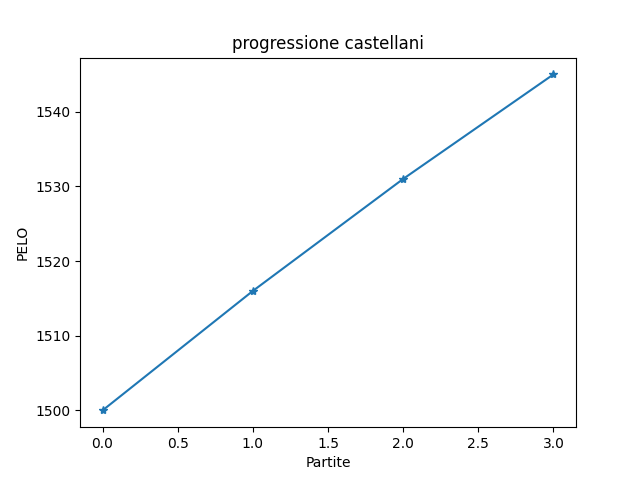
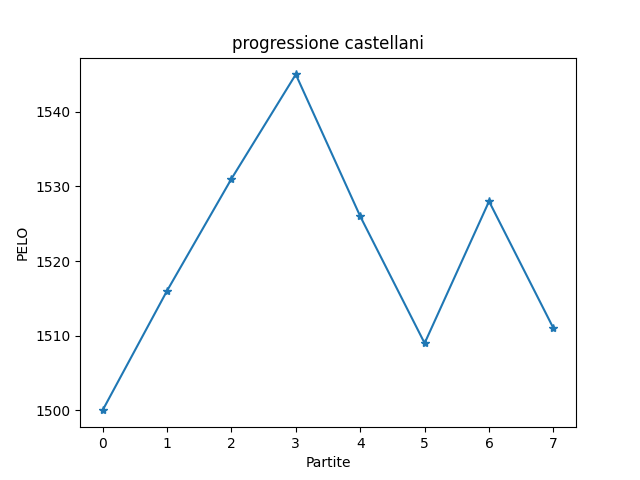
Add files via upload

diff --git a/index.htm b/index.htm
@@ -2,7 +2,7 @@
 <html>
 <link rel='stylesheet' href='style.css'>
 <center><body><br><h1 style='color:blue;'><big>TORNEO ESTATE 2024</big></h1></body><title>Classifica</title>
-<h5>Ultimo aggiornamento: 2024-06-10 alle 09:17:45</h5>
+<h5>Ultimo aggiornamento: 2024-06-12 alle 14:58:31</h5>
 <br><br><h1>Classifica</h1><table border='1' class='dataframe'>
 <thead>
 <tr 'text-align: right;'>
@@ -10,16 +10,32 @@
 <th>PELO</th><th>Statistiche</th></tr>
 </thead>
 <tbody><tr>
-<td>1</td><td>castellani</td>
-<td>1545</td><td><b><center><a href = 'statistiche_castellani.htm'>I</a></center></h3></b>
+<td>1</td><td>zontini</td>
+<td>1543</td><td><b><center><a href = 'statistiche_zontini.htm'>I</a></center></h3></b>
 </tr>
 <tr>
-<td>2</td><td>caprile</td>
-<td>1457</td><td><b><center><a href = 'statistiche_caprile.htm'>I</a></center></h3></b>
+<td>2</td><td>devigili</td>
+<td>1522</td><td><b><center><a href = 'statistiche_devigili.htm'>I</a></center></h3></b>
+</tr>
+<tr>
+<td>3</td><td>castellani</td>
+<td>1511</td><td><b><center><a href = 'statistiche_castellani.htm'>I</a></center></h3></b>
+</tr>
+<tr>
+<td>4</td><td>tronza</td>
+<td>1485</td><td><b><center><a href = 'statistiche_tronza.htm'>I</a></center></h3></b>
+</tr>
+<tr>
+<td>5</td><td>caprile</td>
+<td>1477</td><td><b><center><a href = 'statistiche_caprile.htm'>I</a></center></h3></b>
+</tr>
+<tr>
+<td>6</td><td>scaglia</td>
+<td>1471</td><td><b><center><a href = 'statistiche_scaglia.htm'>I</a></center></h3></b>
 </tr>
 </table>
 <br><br><center><h1><b>Statistiche Globali</b></h1></center><center><table id='statistiche' border='1' class='dataframe'>
-<tr><td><b>Più partite fatte</b></td><td>castellani (3)</td></tr>
-<tr><td><b>Più partite vinte</b></td><td>castellani (3)</td></tr>
-<tr><td><b>Percentuale di vittorie più alta</b></td><td>castellani (100.0%)</td></tr>
+<tr><td><b>Più partite fatte</b></td><td>castellani (7)</td></tr>
+<tr><td><b>Più partite vinte</b></td><td>zontini (4)</td></tr>
+<tr><td><b>Percentuale di vittorie più alta</b></td><td>zontini (80.0%)</td></tr>
 </table><br><br><br><br><br><h2><center><a href='storico_partite.html'>Storico partite</a></center></h2><br><br><br><br></html>

diff --git a/statistiche_caprile.htm b/statistiche_caprile.htm
@@ -5,13 +5,17 @@
 <h1><center>Statistiche: caprile</center></h1>
 <center><img src='caprile.png'></center>
 </head><br><br><center><table id='statistiche' border='1' class='dataframe'>
-<tr><td><b>Partite fatte</b></td><td>3</td></tr>
-<tr><td><b>Partite vinte</b></td><td>0 (0.0%)</td></tr>
+<tr><td><b>Partite fatte</b></td><td>4</td></tr>
+<tr><td><b>Partite vinte</b></td><td>1 (25.0%)</td></tr>
 <tr><td><b>Record PELO</b></td><td>1500</td></tr>
-<tr><td><b>Best streak</b></td><td>0</td></tr>
-<tr><td><b>Current streak</b></td><td>0</td></tr>
-<tr><td><b>Punti fatti</b></td><td>24</td></tr>
-<tr><td><b>Punti subiti</b></td><td>33</td></tr>
+<tr><td><b>Best streak</b></td><td>1</td></tr>
+<tr><td><b>Current streak</b></td><td>1</td></tr>
+<tr><td><b>Punti fatti</b></td><td>35</td></tr>
+<tr><td><b>Punti subiti</b></td><td>41</td></tr>
 </table></center></body><br><br><center><table id='statistiche' border='1' class='dataframe'>
-<br><h2>Statistiche contro gli altri giocatori</h2><tr><td><b>castellani</b></td><td><b>0.0% (<span style='color:green'>0</span> / <span style='color:red'>3</span>  / 3)</b></td></tr>
+<br><h2>Statistiche contro gli altri giocatori</h2><tr><td><b>zontini</b></td><td><b>N/A% (<span style='color:green'>0</span> / <span style='color:red'>0</span>  / 0)</b></td></tr>
+<tr><td><b>devigili</b></td><td><b>N/A% (<span style='color:green'>0</span> / <span style='color:red'>0</span>  / 0)</b></td></tr>
+<tr><td><b>castellani</b></td><td><b>25.0% (<span style='color:green'>1</span> / <span style='color:red'>3</span>  / 4)</b></td></tr>
+<tr><td><b>tronza</b></td><td><b>N/A% (<span style='color:green'>0</span> / <span style='color:red'>0</span>  / 0)</b></td></tr>
+<tr><td><b>scaglia</b></td><td><b>N/A% (<span style='color:green'>0</span> / <span style='color:red'>0</span>  / 0)</b></td></tr>
 <br><br><br></html>

diff --git a/statistiche_castellani.htm b/statistiche_castellani.htm
@@ -5,13 +5,17 @@
 <h1><center>Statistiche: castellani</center></h1>
 <center><img src='castellani.png'></center>
 </head><br><br><center><table id='statistiche' border='1' class='dataframe'>
-<tr><td><b>Partite fatte</b></td><td>3</td></tr>
-<tr><td><b>Partite vinte</b></td><td>3 (100.0%)</td></tr>
+<tr><td><b>Partite fatte</b></td><td>7</td></tr>
+<tr><td><b>Partite vinte</b></td><td>4 (57.1%)</td></tr>
 <tr><td><b>Record PELO</b></td><td>1545</td></tr>
 <tr><td><b>Best streak</b></td><td>3</td></tr>
-<tr><td><b>Current streak</b></td><td>3</td></tr>
-<tr><td><b>Punti fatti</b></td><td>33</td></tr>
-<tr><td><b>Punti subiti</b></td><td>24</td></tr>
+<tr><td><b>Current streak</b></td><td>0</td></tr>
+<tr><td><b>Punti fatti</b></td><td>60</td></tr>
+<tr><td><b>Punti subiti</b></td><td>66</td></tr>
 </table></center></body><br><br><center><table id='statistiche' border='1' class='dataframe'>
-<br><h2>Statistiche contro gli altri giocatori</h2><tr><td><b>caprile</b></td><td><b>100.0% (<span style='color:green'>3</span> / <span style='color:red'>0</span>  / 3)</b></td></tr>
+<br><h2>Statistiche contro gli altri giocatori</h2><tr><td><b>zontini</b></td><td><b>100.0% (<span style='color:green'>1</span> / <span style='color:red'>0</span>  / 1)</b></td></tr>
+<tr><td><b>devigili</b></td><td><b>0.0% (<span style='color:green'>0</span> / <span style='color:red'>2</span>  / 2)</b></td></tr>
+<tr><td><b>tronza</b></td><td><b>N/A% (<span style='color:green'>0</span> / <span style='color:red'>0</span>  / 0)</b></td></tr>
+<tr><td><b>caprile</b></td><td><b>75.0% (<span style='color:green'>3</span> / <span style='color:red'>1</span>  / 4)</b></td></tr>
+<tr><td><b>scaglia</b></td><td><b>N/A% (<span style='color:green'>0</span> / <span style='color:red'>0</span>  / 0)</b></td></tr>
 <br><br><br></html>

diff --git a/statistiche_zontini.htm b/statistiche_zontini.htm
@@ -1,0 +1,21 @@
+<!DOCTYPE html>
+<html>
+<head>
+<link rel='stylesheet' href='style.css'>
+<h1><center>Statistiche: zontini</center></h1>
+<center><img src='zontini.png'></center>
+</head><br><br><center><table id='statistiche' border='1' class='dataframe'>
+<tr><td><b>Partite fatte</b></td><td>5</td></tr>
+<tr><td><b>Partite vinte</b></td><td>4 (80.0%)</td></tr>
+<tr><td><b>Record PELO</b></td><td>1561</td></tr>
+<tr><td><b>Best streak</b></td><td>4</td></tr>
+<tr><td><b>Current streak</b></td><td>0</td></tr>
+<tr><td><b>Punti fatti</b></td><td>53</td></tr>
+<tr><td><b>Punti subiti</b></td><td>35</td></tr>
+</table></center></body><br><br><center><table id='statistiche' border='1' class='dataframe'>
+<br><h2>Statistiche contro gli altri giocatori</h2><tr><td><b>devigili</b></td><td><b>100.0% (<span style='color:green'>1</span> / <span style='color:red'>0</span>  / 1)</b></td></tr>
+<tr><td><b>castellani</b></td><td><b>0.0% (<span style='color:green'>0</span> / <span style='color:red'>1</span>  / 1)</b></td></tr>
+<tr><td><b>tronza</b></td><td><b>100.0% (<span style='color:green'>1</span> / <span style='color:red'>0</span>  / 1)</b></td></tr>
+<tr><td><b>caprile</b></td><td><b>N/A% (<span style='color:green'>0</span> / <span style='color:red'>0</span>  / 0)</b></td></tr>
+<tr><td><b>scaglia</b></td><td><b>100.0% (<span style='color:green'>2</span> / <span style='color:red'>0</span>  / 2)</b></td></tr>
+<br><br><br></html>

diff --git a/statistiche_devigili.htm b/statistiche_devigili.htm
@@ -1,0 +1,21 @@
+<!DOCTYPE html>
+<html>
+<head>
+<link rel='stylesheet' href='style.css'>
+<h1><center>Statistiche: devigili</center></h1>
+<center><img src='devigili.png'></center>
+</head><br><br><center><table id='statistiche' border='1' class='dataframe'>
+<tr><td><b>Partite fatte</b></td><td>3</td></tr>
+<tr><td><b>Partite vinte</b></td><td>2 (66.6%)</td></tr>
+<tr><td><b>Record PELO</b></td><td>1522</td></tr>
+<tr><td><b>Best streak</b></td><td>1</td></tr>
+<tr><td><b>Current streak</b></td><td>1</td></tr>
+<tr><td><b>Punti fatti</b></td><td>31</td></tr>
+<tr><td><b>Punti subiti</b></td><td>19</td></tr>
+</table></center></body><br><br><center><table id='statistiche' border='1' class='dataframe'>
+<br><h2>Statistiche contro gli altri giocatori</h2><tr><td><b>zontini</b></td><td><b>0.0% (<span style='color:green'>0</span> / <span style='color:red'>1</span>  / 1)</b></td></tr>
+<tr><td><b>castellani</b></td><td><b>100.0% (<span style='color:green'>2</span> / <span style='color:red'>0</span>  / 2)</b></td></tr>
+<tr><td><b>tronza</b></td><td><b>N/A% (<span style='color:green'>0</span> / <span style='color:red'>0</span>  / 0)</b></td></tr>
+<tr><td><b>caprile</b></td><td><b>N/A% (<span style='color:green'>0</span> / <span style='color:red'>0</span>  / 0)</b></td></tr>
+<tr><td><b>scaglia</b></td><td><b>N/A% (<span style='color:green'>0</span> / <span style='color:red'>0</span>  / 0)</b></td></tr>
+<br><br><br></html>

diff --git a/statistiche_scaglia.htm b/statistiche_scaglia.htm
@@ -1,0 +1,21 @@
+<!DOCTYPE html>
+<html>
+<head>
+<link rel='stylesheet' href='style.css'>
+<h1><center>Statistiche: scaglia</center></h1>
+<center><img src='scaglia.png'></center>
+</head><br><br><center><table id='statistiche' border='1' class='dataframe'>
+<tr><td><b>Partite fatte</b></td><td>2</td></tr>
+<tr><td><b>Partite vinte</b></td><td>0 (0.0%)</td></tr>
+<tr><td><b>Record PELO</b></td><td>1500</td></tr>
+<tr><td><b>Best streak</b></td><td>0</td></tr>
+<tr><td><b>Current streak</b></td><td>0</td></tr>
+<tr><td><b>Punti fatti</b></td><td>10</td></tr>
+<tr><td><b>Punti subiti</b></td><td>22</td></tr>
+</table></center></body><br><br><center><table id='statistiche' border='1' class='dataframe'>
+<br><h2>Statistiche contro gli altri giocatori</h2><tr><td><b>zontini</b></td><td><b>0.0% (<span style='color:green'>0</span> / <span style='color:red'>2</span>  / 2)</b></td></tr>
+<tr><td><b>devigili</b></td><td><b>N/A% (<span style='color:green'>0</span> / <span style='color:red'>0</span>  / 0)</b></td></tr>
+<tr><td><b>castellani</b></td><td><b>N/A% (<span style='color:green'>0</span> / <span style='color:red'>0</span>  / 0)</b></td></tr>
+<tr><td><b>tronza</b></td><td><b>N/A% (<span style='color:green'>0</span> / <span style='color:red'>0</span>  / 0)</b></td></tr>
+<tr><td><b>caprile</b></td><td><b>N/A% (<span style='color:green'>0</span> / <span style='color:red'>0</span>  / 0)</b></td></tr>
+<br><br><br></html>

diff --git a/statistiche_tronza.htm b/statistiche_tronza.htm
@@ -1,0 +1,21 @@
+<!DOCTYPE html>
+<html>
+<head>
+<link rel='stylesheet' href='style.css'>
+<h1><center>Statistiche: tronza</center></h1>
+<center><img src='tronza.png'></center>
+</head><br><br><center><table id='statistiche' border='1' class='dataframe'>
+<tr><td><b>Partite fatte</b></td><td>1</td></tr>
+<tr><td><b>Partite vinte</b></td><td>0 (0.0%)</td></tr>
+<tr><td><b>Record PELO</b></td><td>1500</td></tr>
+<tr><td><b>Best streak</b></td><td>0</td></tr>
+<tr><td><b>Current streak</b></td><td>0</td></tr>
+<tr><td><b>Punti fatti</b></td><td>5</td></tr>
+<tr><td><b>Punti subiti</b></td><td>11</td></tr>
+</table></center></body><br><br><center><table id='statistiche' border='1' class='dataframe'>
+<br><h2>Statistiche contro gli altri giocatori</h2><tr><td><b>zontini</b></td><td><b>0.0% (<span style='color:green'>0</span> / <span style='color:red'>1</span>  / 1)</b></td></tr>
+<tr><td><b>devigili</b></td><td><b>N/A% (<span style='color:green'>0</span> / <span style='color:red'>0</span>  / 0)</b></td></tr>
+<tr><td><b>castellani</b></td><td><b>N/A% (<span style='color:green'>0</span> / <span style='color:red'>0</span>  / 0)</b></td></tr>
+<tr><td><b>caprile</b></td><td><b>N/A% (<span style='color:green'>0</span> / <span style='color:red'>0</span>  / 0)</b></td></tr>
+<tr><td><b>scaglia</b></td><td><b>N/A% (<span style='color:green'>0</span> / <span style='color:red'>0</span>  / 0)</b></td></tr>
+<br><br><br></html>

diff --git a/storico_partite.html b/storico_partite.html
@@ -17,5 +17,37 @@
 <td>3</td><td>caprile</td>
 <td>castellani</td><td><b><center>9-11</center></h3></b>
 </tr>
+<tr>
+<td>4</td><td>castellani</td>
+<td>caprile</td><td><b><center>8-11</center></h3></b>
+</tr>
+<tr>
+<td>5</td><td>zontini</td>
+<td>scaglia</td><td><b><center>11-5</center></h3></b>
+</tr>
+<tr>
+<td>6</td><td>zontini</td>
+<td>tronza</td><td><b><center>11-5</center></h3></b>
+</tr>
+<tr>
+<td>7</td><td>zontini</td>
+<td>scaglia</td><td><b><center>11-5</center></h3></b>
+</tr>
+<tr>
+<td>8</td><td>castellani</td>
+<td>devigili</td><td><b><center>6-11</center></h3></b>
+</tr>
+<tr>
+<td>9</td><td>zontini</td>
+<td>devigili</td><td><b><center>11-9</center></h3></b>
+</tr>
+<tr>
+<td>10</td><td>castellani</td>
+<td>zontini</td><td><b><center>11-9</center></h3></b>
+</tr>
+<tr>
+<td>11</td><td>castellani</td>
+<td>devigili</td><td><b><center>2-11</center></h3></b>
+</tr>
 </table></center>
 </html>
